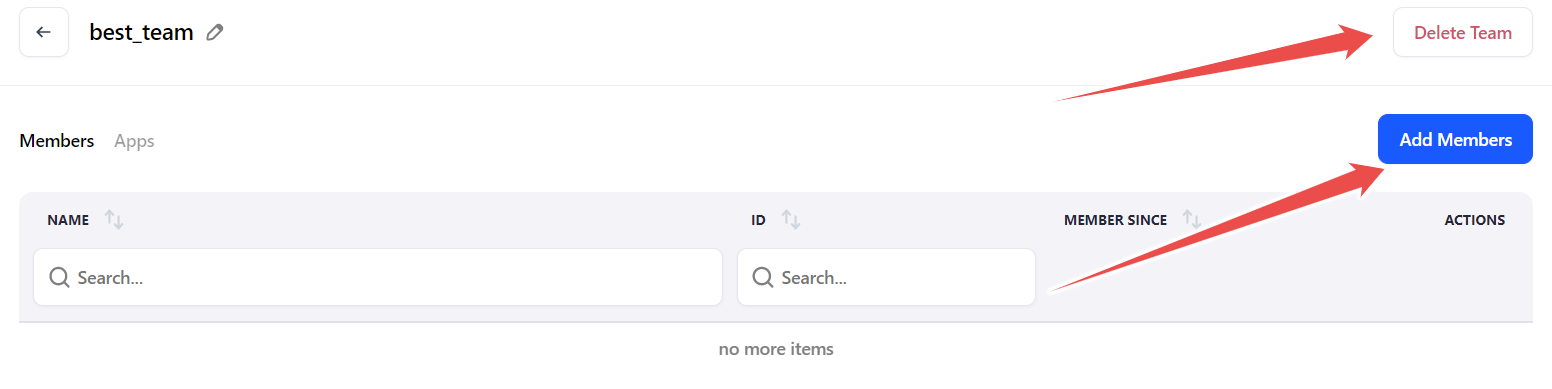
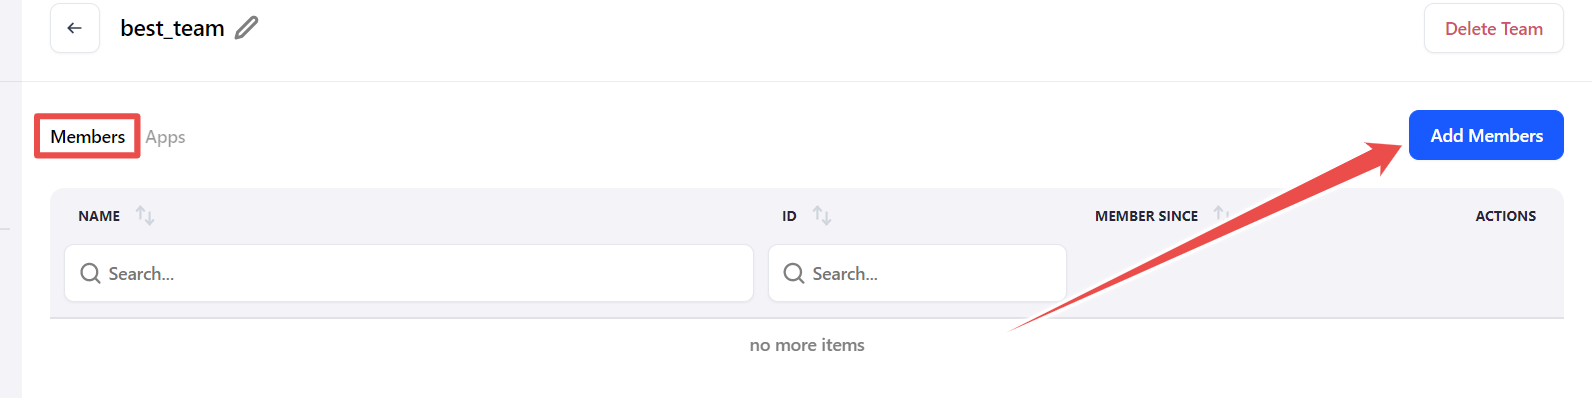
Added improvments to organizations page

diff --git a/docs/community/clarifai-organizations.md b/docs/community/clarifai-organizations.md
@@ -92,6 +92,10 @@ If you click your organization’s profile icon at the top-right section of the 
 - **Security**—Allows you to enforce the security of your Clarifai organization. 
 - **Sign Out**—Allows you to sign out of the Community platform, which includes your user and organization accounts.
 
+<details>
+
+<summary>How to Create and Manage Apps</summary>
+
 ## How to Create and Manage Apps
 
 To create an app, click your organization’s profile at the top-right section of the navigation bar and select the **My Apps** option on the drop-down list. 
@@ -128,6 +132,12 @@ If you click on any listed app, you’ll be redirected to its individual page, w
 For example, click the **Inputs** button on the collapsible left sidebar to upload inputs to the app. Next, click the **Upload Inputs** button and upload the inputs you want to add to the app. 
 
 ![App upload inputs](/img/clarifai_orgs/upload_inputs.png)
+
+</details>
+
+<details>
+
+<summary>How to Create and Manage Models</summary>
 
 ## How to Create and Manage Models
 
@@ -172,6 +182,12 @@ You’ll then be redirected to the newly created model’s page. As you can see 
 - Under the **Versions** tab, you can copy the model’s version ID, delete the model version, and more. 
 - Under the **Concepts** tab, you can view the concepts available in your model, search for concepts, and more. 
 
+</details>
+
+<details>
+
+<summary>How to Create and Manage Workflows</summary>
+
 ## How to Create and Manage Workflows
 
 To create a workflow, start by navigating to the individual page of your app, as illustrated earlier. Then, select the **App Workflows** option on the collapsible left sidebar. 
@@ -212,6 +228,8 @@ You’ll then be redirected to the newly created workflow’s page. As you can s
 - Click the **Use Workflow** button to use the workflow in an app or in an API request.  
 - Click the series of vertical dots at the top-right, endmost section of the page to delete the workflow. 
 - On the same page, you can also complete several other tasks, such as editing the workflow’s details, such as its description, and making predictions with the workflow.
+
+</details>
 
 ## How to Add and Manage Members 
 
@@ -286,21 +304,49 @@ Enter the team’s ID and name on the dialog box that appears.
 
 Click the **Confirm** button.
 
-Your newly created team will appear on the **Teams** listing page. You can also search for teams and delete them on that page.
+Your newly created team will appear on the **Teams** listing page. You can also search for other teams you've added and delete them on that page.
 
 ![Teams listing page](/img/clarifai_orgs/teams_listing_page.png)
 
-If you click on any listed team’s name, you’ll be redirected to its individual page, where you can accomplish several tasks, including editing its name, adding members to it, deleting members from it, deleting the team itself, and more. 
+If you click on any listed team’s name, you’ll be redirected to its individual page, where you can accomplish several management tasks, including adding and managing team members and apps. 
 
-To delete a team, click the **Delete Team** button.
+Let's demonstrate how you can achieve some of the tasks. 
 
-To add members to your team, click the **Add Members** button. 
+### How to Manage a Team
+
+To edit a team's name, click the **Edit Team Name** button and provide your new team's name. To delete a team, click the **Delete Team** button.
+
+![manage a team](/img/clarifai_orgs/how_to_manage_team.png)
+
+### How to Add and Manage Team Members
+
+To add members to a team, first select the **Members** tab. Then, click the **Add Members** button. 
 
 ![Individual team page](/img/clarifai_orgs/individual_team_page.png)
 
 On the dialog box that appears, search for a member(s) of your organization and click the **Confirm** button to add them to the team. Note that you can only add existing members of your organization to a team. 
 
-![Add members to your team](/img/clarifai_orgs/add_team_members_dialog_boix.png)
+![Add members to your team](/img/clarifai_orgs/add_team_members_dialog_box.png)
+
+The newly added member will appear on the **Members** listing page. You can also search for other members you've added and delete them on that page.
+
+![newly added member](/img/clarifai_orgs/newly_added_member.png)
+
+### How to Add and Manage Team Apps
+
+To assign an app to a team, first select the **Apps** tab. Then, click the **Add App** button. 
+
+![add app  to team](/img/clarifai_orgs/add_app_to_team.png)
+
+On the dialog box that appears, search for the app(s) you want to add to your team. Note that you can only add the existing apps that belong to your organization to a team. You can also define a role the app should have. 
+
+Click the **Confirm** button to add the app(s) you've selected to the team. 
+
+![Add apps to your team](/img/clarifai_orgs/apps_dialog_box.png)
+
+The newly added app will appear on the **Apps** listing page. You can also search for other apps you've added and delete them on that page.
+
+![newly added app](/img/clarifai_orgs/newly_added_app.png)
 
 ## How to Enforce the Security of Your Clarifai Organization
 

diff --git a/docs/community/concepts/create-get-update-delete.md b/docs/community/concepts/create-get-update-delete.md
@@ -28,7 +28,7 @@ You'll be redirected to the inputs' viewer page, where you can create new concep
 
 ![](/img/community_2/inputs_viewer_page.png)
 
-There several ways you can use to create concepts on the platform. Let's illustrate two of them:
+There are several ways to create concepts on the platform. Let's illustrate two of them:
 
 - Via the **Labels** section
 - Via the inputs uploader
@@ -63,7 +63,7 @@ The new name you've typed will appear underneath the search box. Click the **Add
 
 The new concept will be successfully added to your app.
 
-You can also click the **Upload inputs** button at the button of the pop-up window to finalize uploading your input.
+You can also click the **Upload inputs** button at the bottom of the pop-up window to finalize uploading your input.
 
 ![](/img/community_2/concepts_newly_added_concept.png)
 

diff --git a/docs/community/model/pcustom-model-walkthrough.md b/docs/community/model/pcustom-model-walkthrough.md
@@ -36,7 +36,7 @@ If you click the **Show Upload Settings** button, you'll expose a section that a
 - **Concepts**—Adding concepts help in training your model. You can select a previously created concept or create a new one. For this example, create new concepts and label your image inputs with them.
 - **Metadata**—You can also add inputs with custom metadata, which can be searched or filtered. Metadata can be any arbitrary JSON. For this example, you may not provide it. 
 
-Click the **Upload inputs** button at the button of the pop-up window to finalize uploading your inputs. 
+Click the **Upload inputs** button at the bottom of the pop-up window to finalize uploading your inputs. 
 
 Next, after adding images that already contain the concepts you want your model to see, you can now proceed to create your own custom model.
 
